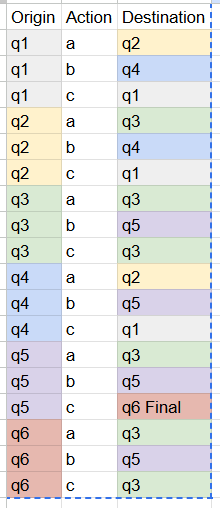
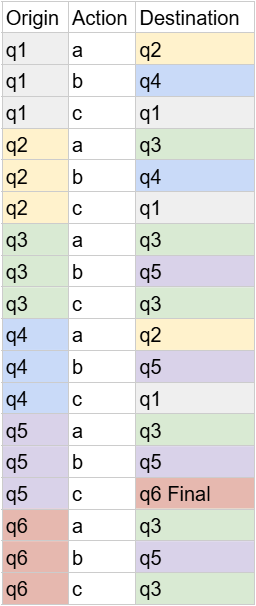
Agregar referencia e imagenes

Changed region(s): [[0.0, 0.0, 1.0, 1.0]]

diff --git a/README.md b/README.md
@@ -23,3 +23,14 @@ Tenía algunos errores en la lógica como que en cuanto llegue a q6 (estado fina
 <img src="images/DFA_boring.png" alt="DFA corregido" width="500">
 
 En esta segunda versión de mi autómata, ya está hecho digitalmente, mejorando la visibilidad. También corregí el error que cuando llegaba a q6 no tendría ningún lugar a donde ir.
+
+Aquí también están las mismas imágenes con códigos de color para más claridad del programa:
+
+<img src="images/DFA_pretty.png" alt="DFA corregido" width="500">
+<img src="images/tabla_pretty.png" alt="DFA corregido" width="500">
+
+
+
+## Referencias
+
+Automata and computability : a programmer’s perspective / Ganesh Lalitha Gopalakrishnan. (2019). CRC Press, Taylor & Francis Group, page 42
